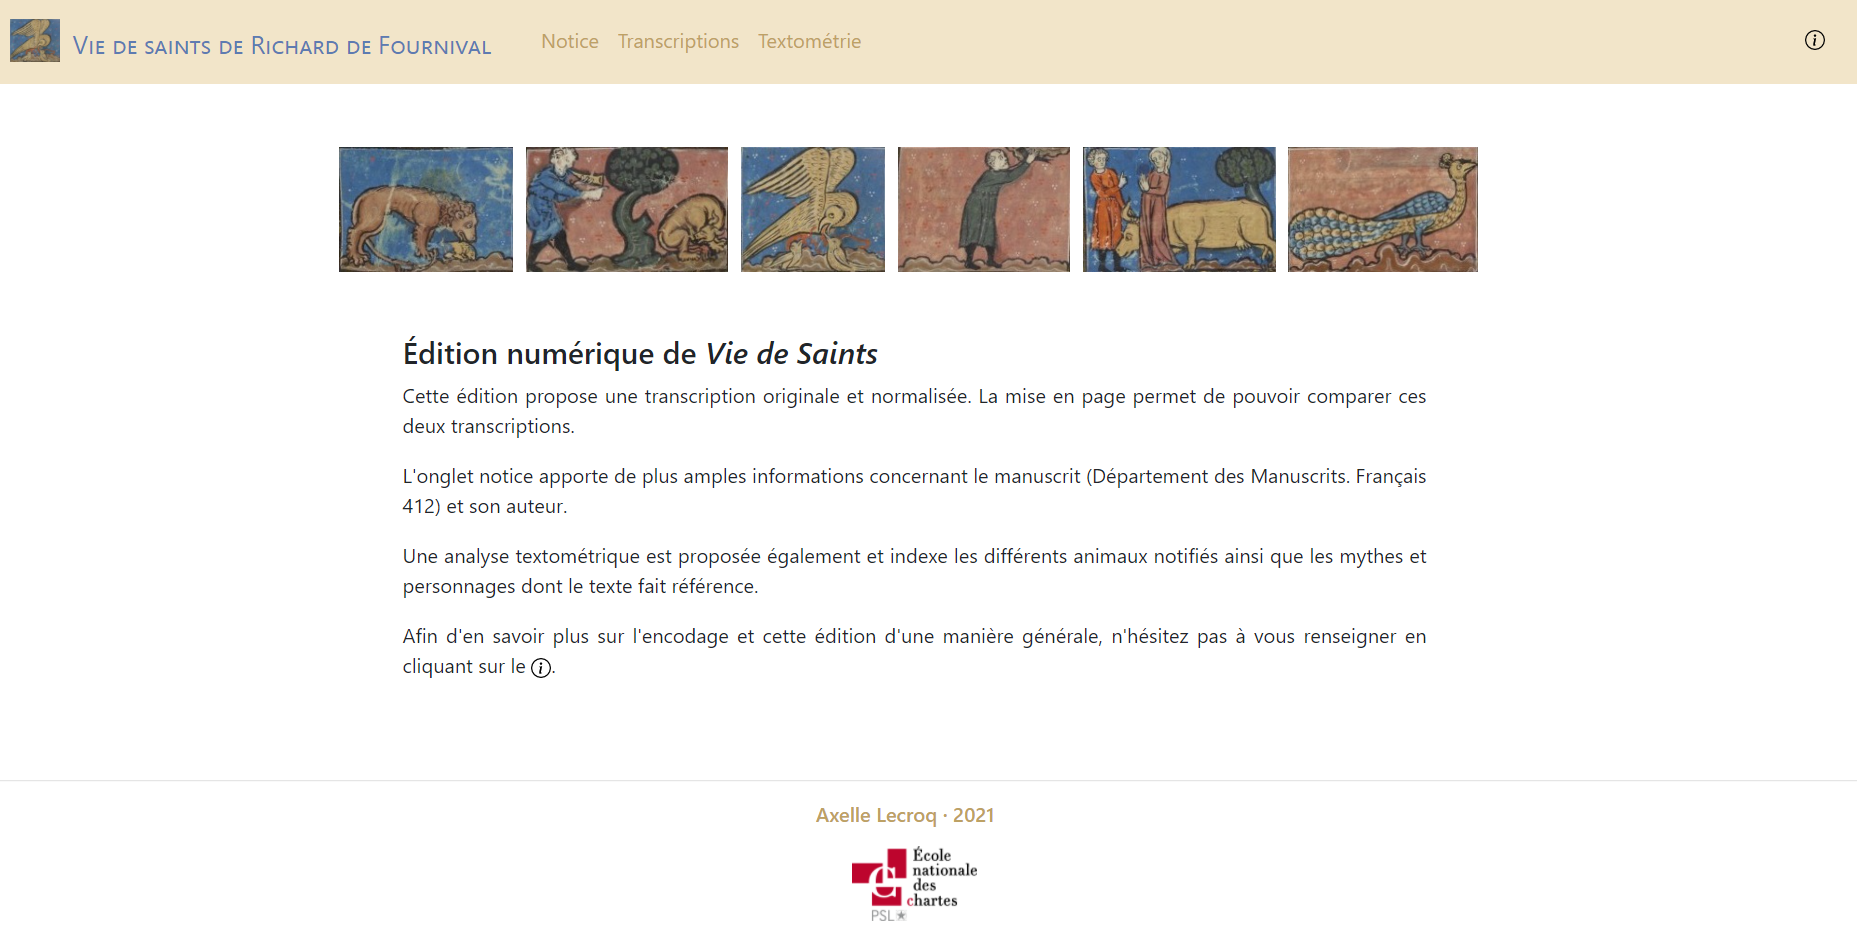
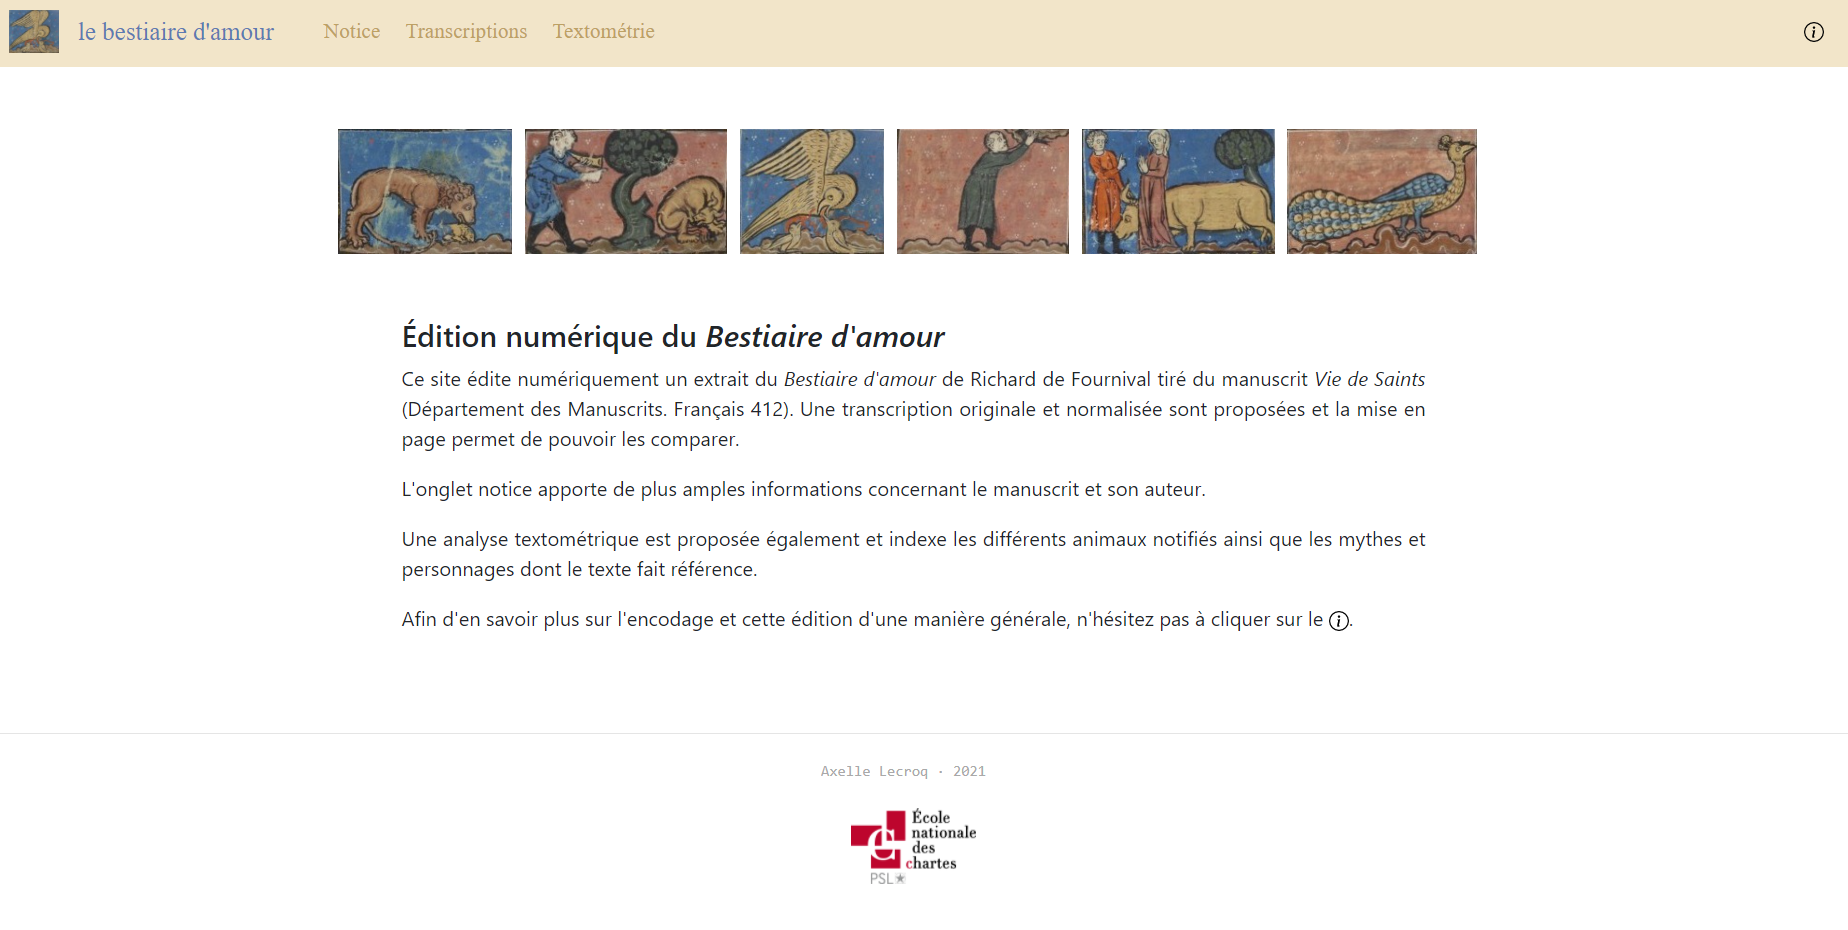
CO readme + update img

diff --git a/README.md b/README.md
@@ -1,12 +1,12 @@
 ## Edition numérique
-Ce projet consiste en l'édition en XML TEI d'une extrait du bestiaire d'amour de Richard de Fournival (ff.232v, 233r et 233v), rédigé en ancien français. Le manuscrit est conservé à la Bibliothèque nationale de France au sein du département des Manuscrits et disponible en [version numérisée](https://gallica.bnf.fr/ark:/12148/btv1b84259980).
-Cette édition numérique a été réalisée au sein de cours d'XML TEI et XSLT dispensés à l'École nationale des Chartes dans le cadre du M2 TNAH et a été produite par [Axelle Lecroq](https://github.com/axellelecroq) au cours de l'année 2021.
+Ce projet consiste en l'édition en XML TEI d'un extrait du bestiaire d'amour de Richard de Fournival (ff.232v, 233r et 233v), rédigé en ancien français. Le manuscrit est conservé à la Bibliothèque nationale de France au sein du département des Manuscrits et disponible en [version numérisée](https://gallica.bnf.fr/ark:/12148/btv1b84259980).
+Cette édition numérique a été réalisée au sein des cours d'XML-tei et d'XSLT dispensés à l'École nationale des chartes dans le cadre du M2 TNAH et a été réalisée par [Axelle Lecroq](https://github.com/axellelecroq) au cours de l'année 2021.
 
 [![plot](img/presentation-site.png)]()
 
 ## Les étapes effectuées
 1. Transcription du texte en ancien français
-2. Encodage en XML TEI:
+2. Encodage en XML-tei:
     - structuration du texte
     - encodage des métadonnées
     - encodage des abréviations et normalisations graphiques de manière à conserver la graphie orginale et à proposer une graphie normalisée
